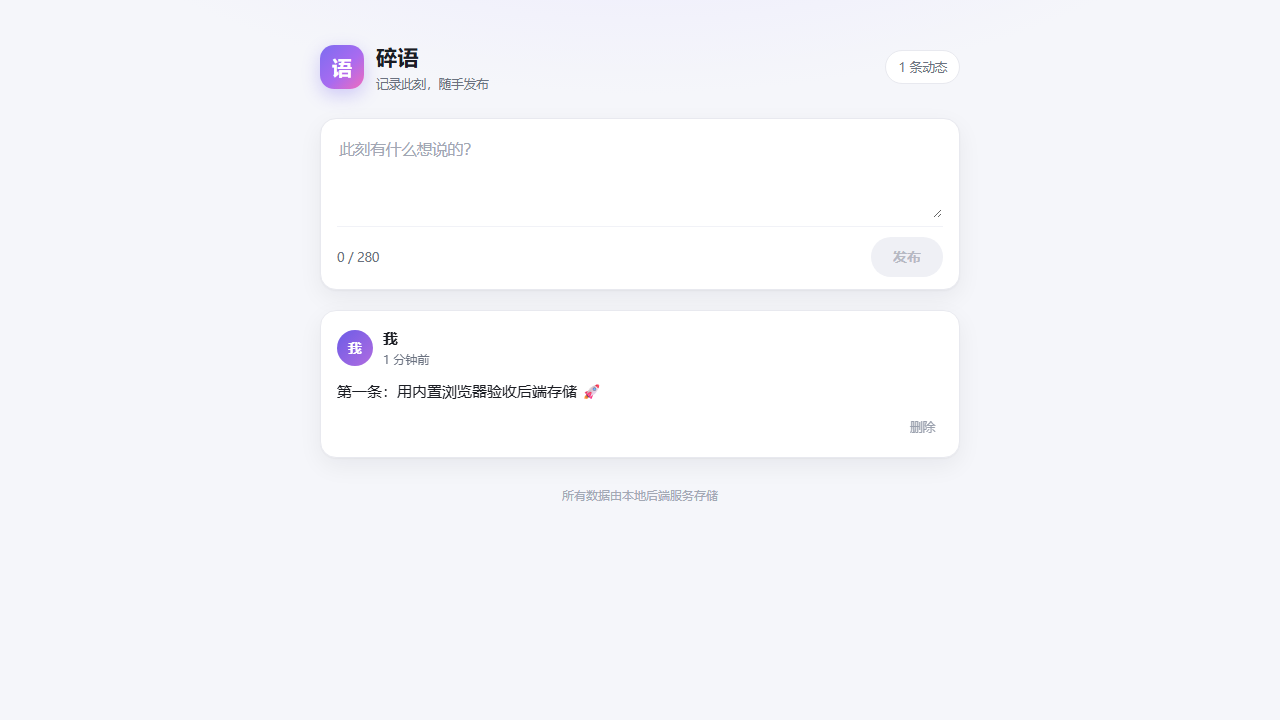
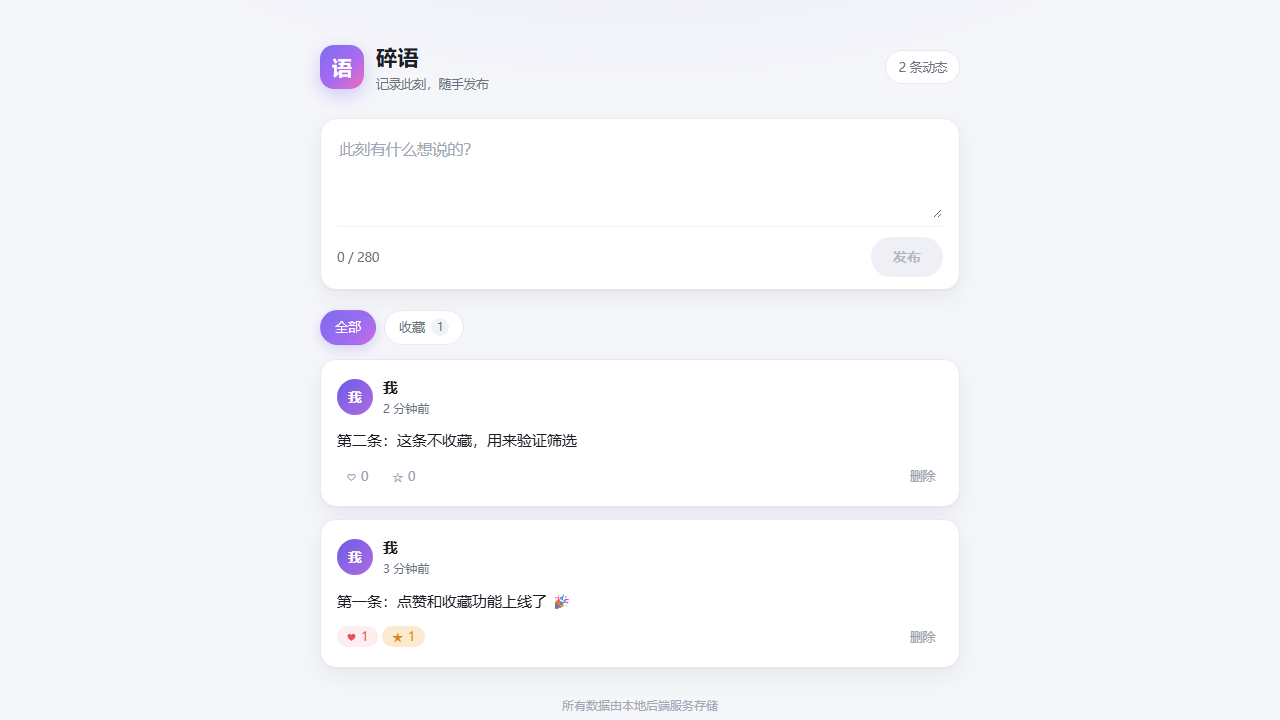
docs: 补充点赞/收藏接口文档，更新浏览器验收截图

diff --git a/README.md b/README.md
@@ -6,6 +6,8 @@
 
 - 发布动态：输入文字（上限 280 字，按 Unicode 码点计数，emoji 算 1 个字），实时字数统计，空内容不可发布
 - 查看动态：按时间倒序展示，相对时间显示（刚刚 / x 分钟前 / 昨天 ...）
+- 点赞 / 收藏：每条动态可点赞（♡ → ♥）与收藏（☆ → ★），带计数；乐观更新，请求失败自动回滚并提示
+- 收藏筛选：「全部 / 收藏」两个 tab，收藏 tab 显示收藏数量，可在本地只看已收藏的动态
 - 删除动态：单条动态可删除，带二次确认
 - 服务端存储：数据由后端内存保管，刷新页面不丢失
 - 快捷键：`Ctrl / Cmd + Enter` 快速发布
@@ -60,18 +62,27 @@ npm test         # 运行接口测试
 | GET | `/api/health` | 健康检查，返回 `{"status":"ok"}` |
 | GET | `/api/posts` | 动态列表，按 `createdAt` 倒序，返回 `{"posts":[...]}` |
 | POST | `/api/posts` | 发布动态，body `{"text":"...","author":"我"}`，成功 201 返回 `{"post":{...}}` |
+| PUT | `/api/posts/:id/like` | 设置点赞状态，body `{"liked":true\|false}`，成功 200 返回 `{"post":{...}}` |
+| PUT | `/api/posts/:id/favorite` | 设置收藏状态，body `{"favorited":true\|false}`，成功 200 返回 `{"post":{...}}` |
 | DELETE | `/api/posts/:id` | 删除动态，成功 200 返回 `{"deleted":true}`；不存在 404 |
 
-单条动态结构：
+单条动态结构（8 个字段）：
 
 ```json
 {
   "id": "0a1b2c3d-...",
   "author": "我",
   "text": "第一条动态",
-  "createdAt": 1763000000000
+  "createdAt": 1763000000000,
+  "likeCount": 0,
+  "liked": false,
+  "favoriteCount": 0,
+  "favorited": false
 }
 ```
+
+`liked` / `favorited` 表示「当前用户」是否已点赞 / 已收藏（无鉴权，单用户语义）。
+点赞与收藏接口传的是**目标状态**而不是「切换」语义，因此天然幂等：重复提交同一个值不会让计数重复累加，取消时计数也不会降为负数。
 
 ### 错误响应
 
@@ -83,6 +94,7 @@ npm test         # 运行接口测试
 | 400 | `TEXT_TOO_LONG` | 正文去空白后超过 280 字 |
 | 400 | `INVALID_AUTHOR` | 作者名非字符串或超过 32 字 |
 | 400 | `INVALID_JSON` | 请求体不是合法 JSON |
+| 400 | `INVALID_STATE` | 点赞 / 收藏的 `liked` / `favorited` 不是布尔值 |
 | 404 | `NOT_FOUND` | 动态不存在或接口不存在 |
 | 500 | `INTERNAL` | 未处理异常（不返回堆栈） |
 
@@ -90,15 +102,19 @@ npm test         # 运行接口测试
 
 ## 技术说明
 
-- 后端只暴露 2 个 REST 资源路径（`/api/posts`、`/api/posts/:id`），校验逻辑集中在 `validate.js`
+- 后端只围绕 `/api/posts` 这一个资源展开（列表 / 新建 / 删除，外加 `/like`、`/favorite` 两个状态子资源），校验逻辑集中在 `validate.js`
 - 静态资源采用**白名单**：仅对外提供 `index.html` 与 `assets/`，源码、`package.json`、`node_modules` 等一律 404
 - 删除接口幂等性语义为「删不到就 404」，前端删除失败时保留原条目，不会产生脏 UI
 - 所有用户输入通过 `textContent` 写入 DOM，避免 XSS 注入
 - 长度按 Unicode 码点计算：前端计数与后端校验口径一致，textarea 不再用 `maxlength` 做 UTF-16 码元截断
 - 前端顺序完全信任服务端（最新在前），本地新建动态插入队首，避免同毫秒创建时二次排序打乱先后
+- 点赞 / 收藏先做乐观更新，再用服务端返回的 post 校正；失败回滚本地状态并提示，不会留下脏 UI
+- 请求飞行期间按钮禁用，避免连点导致计数错乱
+- 收藏筛选纯前端完成（全量数据已在内存中），不额外增加接口；顶部「N 条动态」始终是总数
 - 接口测试覆盖：字段校验边界、倒序、默认作者、重复删除、未知路由、静态资源越权访问
-- 健壮性测试覆盖：store 返回副本隔离、同时间戳稳定排序、特殊 id 删除、500 不泄漏堆栈、`text/plain` 容错、响应字段白名单
-- 前端契约测试覆盖：无 Local Storage/Session Storage 依赖、调用 `/api/posts`、码点计数、无 `maxlength` 截断
+- 点赞收藏测试覆盖：初始零值、幂等累加、取消不为负、两开关互不影响、404、非布尔 400、非法 JSON、失败不改状态
+- 健壮性测试覆盖：store 返回副本隔离、同时间戳稳定排序、特殊 id 删除、500 不泄漏堆栈、`text/plain` 容错、响应字段白名单（8 字段）
+- 前端契约测试覆盖：无 Local Storage/Session Storage 依赖、调用 `/api/posts`、码点计数、无 `maxlength` 截断、点赞收藏走后端接口、`aria-pressed` 语义
 
 ## 许可
 
